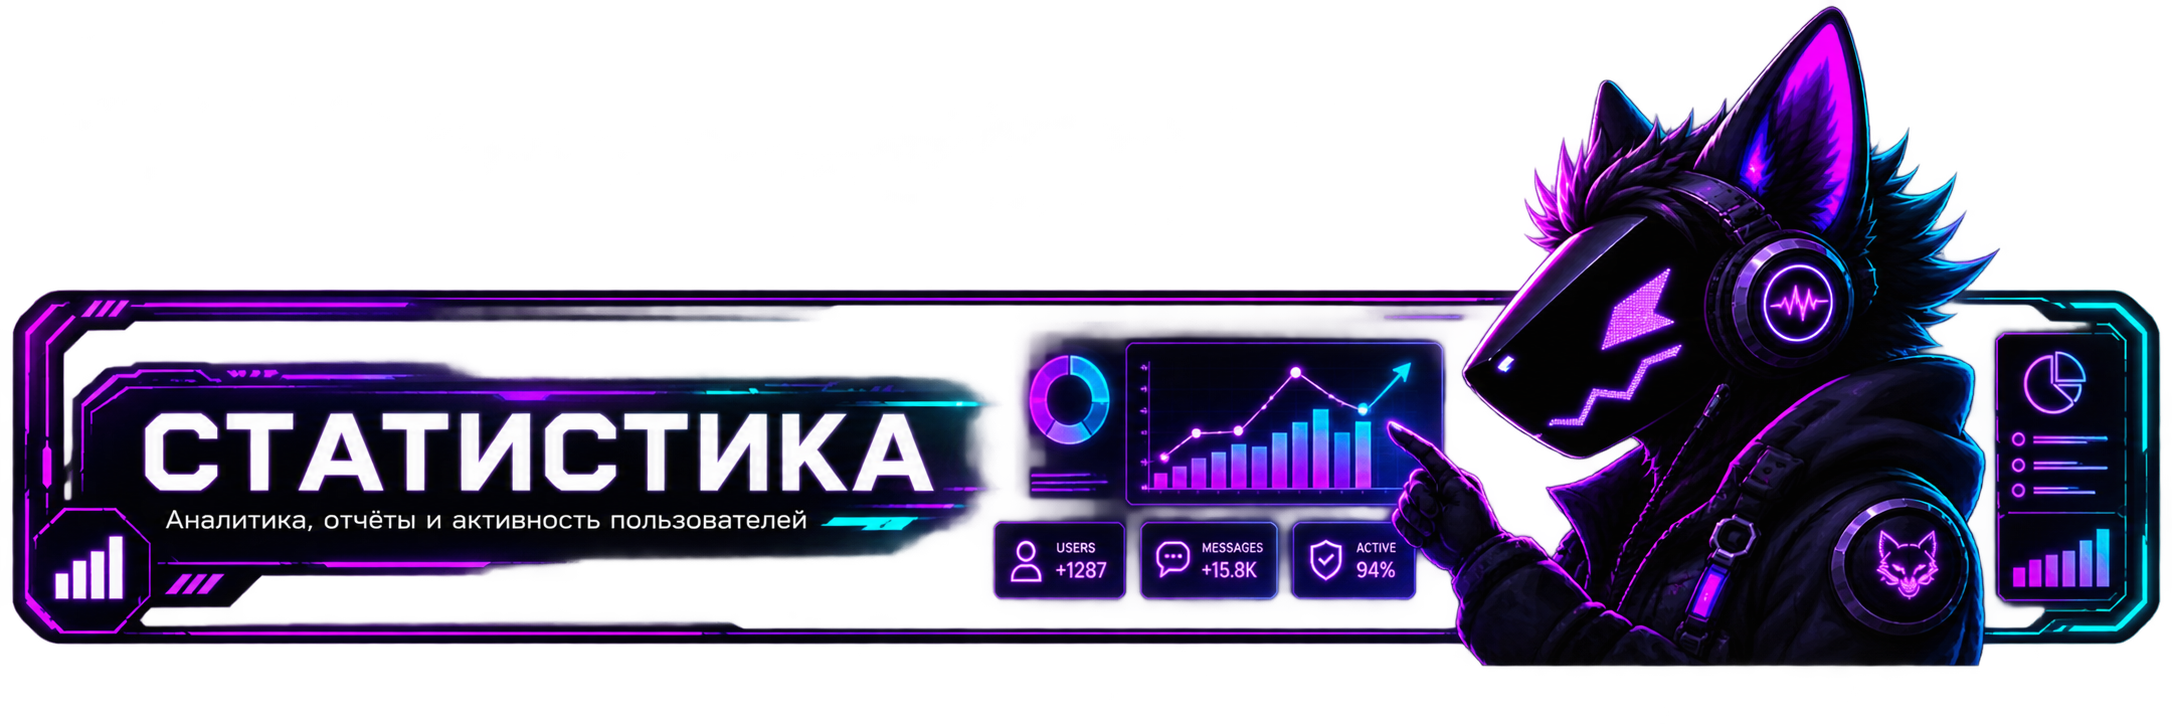
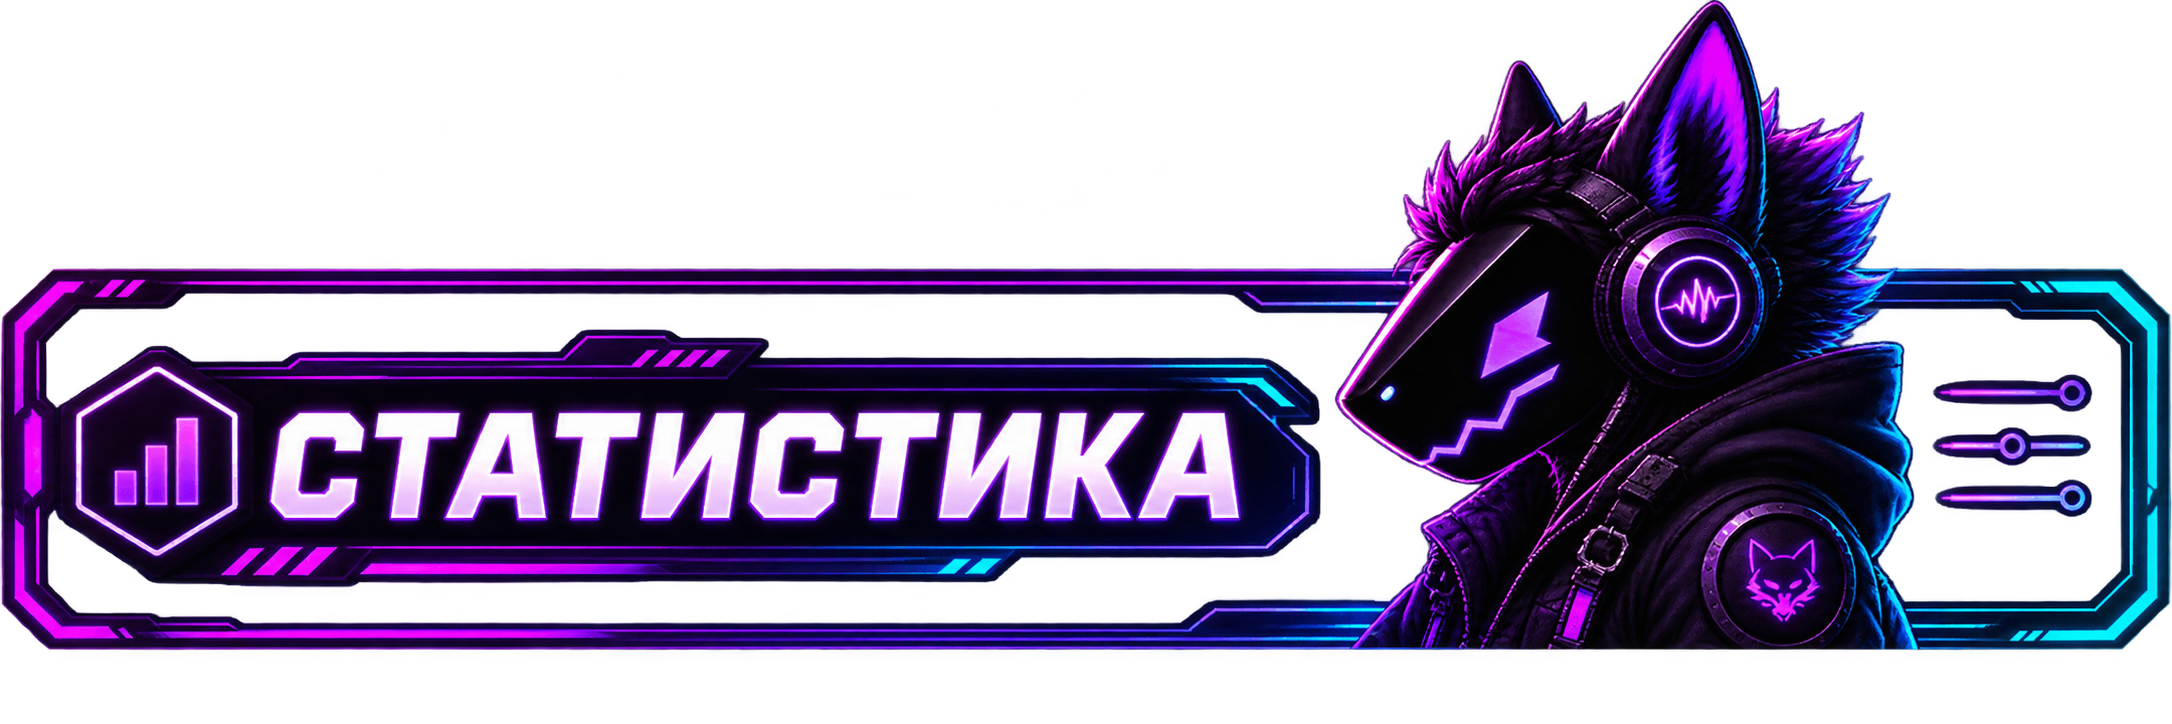
Add files via upload

diff --git a/static/statistics.css b/static/statistics.css
@@ -1,6 +1,6 @@
 /* Protogen Analytics — redesigned statistics */
 .stats-page{padding:26px 28px 24px}
-.stats-hero{min-height:142px;padding:28px 30px;margin-bottom:14px;display:flex;align-items:flex-end;justify-content:space-between;gap:20px;border:1px solid rgba(0,255,225,.16);border-radius:16px;background:linear-gradient(90deg,rgba(2,8,18,.88),rgba(4,8,18,.55)),url("/static/bg.png") center/cover;position:relative;overflow:hidden;box-shadow:0 18px 45px rgba(0,0,0,.25)}
+.stats-hero{height:185px;margin-bottom:14px;border:0;border-radius:14px;background:transparent;position:relative;overflow:hidden;box-shadow:none;line-height:0}.stats-hero img{display:block;width:100%;height:100%;object-fit:contain;object-position:center;max-width:none}
 .stats-hero:after{content:"";position:absolute;left:0;right:0;bottom:0;height:1px;background:linear-gradient(90deg,transparent,#00ffe1,#a84cff,transparent)}
 .stats-hero h1{margin:7px 0 5px;font-size:36px;letter-spacing:-1px}
 .stats-hero p{margin:0;color:#789092;font-size:12px}
@@ -21,7 +21,7 @@
 .stats-grid{display:grid;gap:12px;margin-bottom:12px}
 .top-grid{grid-template-columns:1.45fr 1fr}
 .middle-grid{grid-template-columns:1.35fr 1fr}
-.bottom-grid{grid-template-columns:1.3fr 1fr}
+.bottom-grid{grid-template-columns:1.3fr 1fr;grid-template-areas:"users moderation";align-items:stretch}.bottom-grid .top-users-panel{grid-area:users}.bottom-grid .moderation-detail{grid-area:moderation}
 .panel{border:1px solid rgba(0,255,225,.13);border-radius:16px;background:linear-gradient(145deg,rgba(4,15,24,.91),rgba(2,8,16,.86));box-shadow:0 16px 45px rgba(0,0,0,.24);padding:19px;overflow:hidden}
 .panel h2{font-size:17px;margin:5px 0 0;color:#e8ffff}
 .panel-head{display:flex;align-items:center;justify-content:space-between;gap:12px}
@@ -59,6 +59,6 @@
 .moderation-detail{min-height:260px}.mod-row{margin-top:14px}.mod-row>div:first-child{display:flex;justify-content:space-between;font-size:9px;color:#83999a}.mod-row b{color:#d9eeee}.mod-track{height:5px;margin-top:7px;background:rgba(255,255,255,.045);border-radius:5px;overflow:hidden}.mod-track i{display:block;height:100%;border-radius:5px;background:#00d9ce;box-shadow:0 0 10px rgba(0,255,225,.18)}.mod-track i.mute{background:#7d42ee}.mod-track i.ban{background:#ff4d88}.mod-track i.kick{background:#c548ff}
 footer{text-align:center;color:#334d4e;font-size:8px;letter-spacing:1.7px;padding:5px 0 20px}footer span{color:#4a7778}
 
-@media(max-width:1250px){.stats-cards{grid-template-columns:repeat(3,1fr)}.top-grid,.middle-grid,.bottom-grid{grid-template-columns:1fr}.stats-hero{min-height:130px}}
-@media(max-width:820px){.stats-page{padding:18px 15px}.stats-cards{grid-template-columns:repeat(2,1fr)}.stats-hero{padding:22px;align-items:flex-start;flex-direction:column}.stats-hero h1{font-size:30px}.stats-live{align-self:flex-start}.chart-bars{gap:5px}.donut-row{gap:15px}.donut{width:125px;height:125px}.legend{width:155px}}
+@media(max-width:1250px){.stats-cards{grid-template-columns:repeat(3,1fr)}.top-grid,.middle-grid,.bottom-grid{grid-template-columns:1fr}.bottom-grid{grid-template-areas:"users" "moderation"}.stats-hero{height:160px}}
+@media(max-width:820px){.stats-page{padding:18px 15px}.stats-cards{grid-template-columns:repeat(2,1fr)}.stats-hero{height:140px}.stats-hero h1{font-size:30px}.stats-live{align-self:flex-start}.chart-bars{gap:5px}.donut-row{gap:15px}.donut{width:125px;height:125px}.legend{width:155px}}
 @media(max-width:520px){.stats-cards{grid-template-columns:1fr}.panel{padding:15px}.day-grid{gap:3px}.user-row{grid-template-columns:22px 34px 1fr auto}.donut-row{flex-direction:column}.legend{width:100%}}

diff --git a/templates/statistics.html b/templates/statistics.html
@@ -19,13 +19,8 @@
     <section class="error-box">⚠ {{ error }}</section>
   {% else %}
 
-  <section class="stats-hero">
-    <div>
-      <div class="eyebrow">АНАЛИТИКА // ПАНЕЛЬ УПРАВЛЕНИЯ</div>
-      <h1>Статистика</h1>
-      <p>Живая статистика сообщества из общей PostgreSQL базы.</p>
-    </div>
-    <div class="stats-live"><i></i> LIVE DATABASE <b>ONLINE</b></div>
+  <section class="stats-hero" aria-label="Статистика">
+    <img src="{{ url_for('static', filename='statistics_banner_bg.png') }}" alt="Статистика">
   </section>
 
   <section class="stats-cards">
